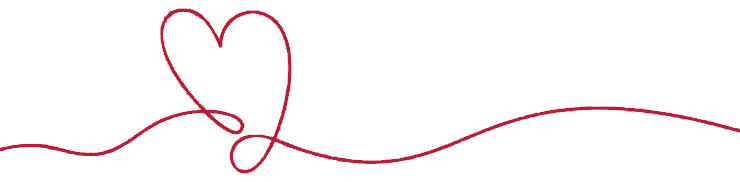
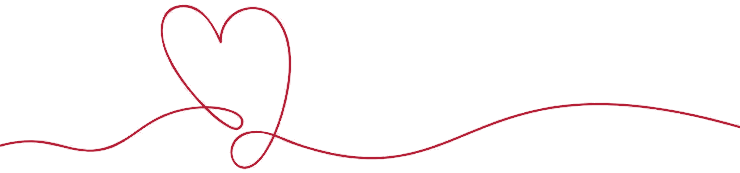
Add files via upload

diff --git a/style.css b/style.css
@@ -1396,3 +1396,57 @@ nav.tabbar button.active{
   .timezone-box .world-clock-card{padding:12px 11px;}
   .timezone-box .world-clock-time{font-size:20px;}
 }
+
+
+/* ---------- v2.0.7 · Header responsive con cuore calligrafico sotto ---------- */
+.honeymoon-topbar{
+  min-height:auto;
+  padding:24px 16px 18px;
+  background:transparent;
+  border-radius:0;
+  box-shadow:none;
+  overflow:visible;
+}
+.honeymoon-title-wrap{
+  width:100%;
+  display:flex;
+  flex-direction:column;
+  align-items:center;
+  justify-content:center;
+  overflow:visible;
+}
+.honeymoon-topbar h1{
+  display:block;
+  width:100%;
+  max-width:100%;
+  margin:0;
+  padding:0 4px;
+  color:#B51F36;
+  font-family:"Segoe Script","Snell Roundhand","Brush Script MT","Lucida Handwriting",cursive;
+  font-size:44px;
+  font-weight:600;
+  line-height:1.08;
+  letter-spacing:-.035em;
+  text-align:center;
+  text-shadow:none;
+  white-space:normal;
+  overflow:visible;
+}
+.honeymoon-heart-line{
+  display:block;
+  width:min(94%, 520px);
+  height:auto;
+  margin:4px auto 0;
+  object-fit:contain;
+  pointer-events:none;
+  user-select:none;
+}
+@media (max-width:420px){
+  .honeymoon-topbar{padding:22px 12px 16px;}
+  .honeymoon-topbar h1{font-size:40px;letter-spacing:-.04em;}
+  .honeymoon-heart-line{width:96%;margin-top:3px;}
+}
+@media (max-width:360px){
+  .honeymoon-topbar h1{font-size:37px;}
+  .honeymoon-heart-line{width:98%;}
+}

diff --git a/index.html b/index.html
@@ -14,14 +14,17 @@
 <meta name="apple-mobile-web-app-capable" content="yes">
 <meta name="apple-mobile-web-app-status-bar-style" content="black-translucent">
 <meta name="apple-mobile-web-app-title" content="L&F Viaggio">
-<link rel="stylesheet" href="style.css?v=25">
+<link rel="stylesheet" href="style.css?v=27">
 </head>
 <body>
 <div id="offline-badge" class="offline-badge">● Modalità offline — dati locali</div>
 
 <div id="app">
   <div class="topbar honeymoon-topbar">
-    <h1><span>Viaggio di Nozze</span><span class="honeymoon-heart" aria-hidden="true"><svg viewBox="0 0 72 84" role="img" focusable="false"><path d="M35.9 72.8C33.4 67.8 30.2 62.7 25.7 57.6C18.1 49 7.5 38.8 7.5 24.9C7.5 13.1 14.7 6.6 23.2 7.2C29.3 7.6 34.1 12.1 36 19.4C38.1 12.3 43.3 7.8 49.7 7.5C58.7 7.1 65.1 14.3 64.7 25.6C64.2 39.8 53.8 50.9 45.8 59.1C41.1 64 37.4 68.3 35.9 72.8ZM35.9 72.8C40.5 76.1 46.8 78.9 51.7 75.7C56.4 72.6 54.8 67.5 50.8 67C46.9 66.5 43.7 69.9 42.7 73.4"/></svg></span></h1>
+    <div class="honeymoon-title-wrap">
+      <h1>Viaggio di Nozze</h1>
+      <img class="honeymoon-heart-line" src="./assets/heart-line.png" alt="" aria-hidden="true">
+    </div>
   </div>
 
   <main>
@@ -59,6 +62,6 @@
 
 <script src="data.js?v=32"></script>
 <script type="module" src="firebase-budget.js?v=32"></script>
-<script src="app.js?v=32"></script>
+<script src="app.js?v=33"></script>
 </body>
 </html>

diff --git a/sw.js b/sw.js
@@ -1,4 +1,4 @@
-const CACHE_NAME = "viaggio-nozze-v37";
+const CACHE_NAME = "viaggio-nozze-v38";
 const ASSETS = [
   "./",
   "./index.html",
@@ -17,6 +17,7 @@ const ASSETS = [
   "./assets/las-vegas.jpg",
   "./assets/las-vegas-2.jpg",
   "./assets/checklist-prepartenza.jpg",
+  "./assets/heart-line.png",
   "./assets/page.jpg",
   "./assets/chicago.jpg",
   "./assets/bayahibe.jpg",

diff --git a/app.js b/app.js
@@ -403,8 +403,7 @@ function renderHome(){
 
     <div class="section-title">Tappe</div>
     ${TRIP.legs.map(leg => cityCardHtml(leg)).join("")}
-
-  `;
+`;
 
   renderRouteStrip();
   bindCityCardClicks(el);
